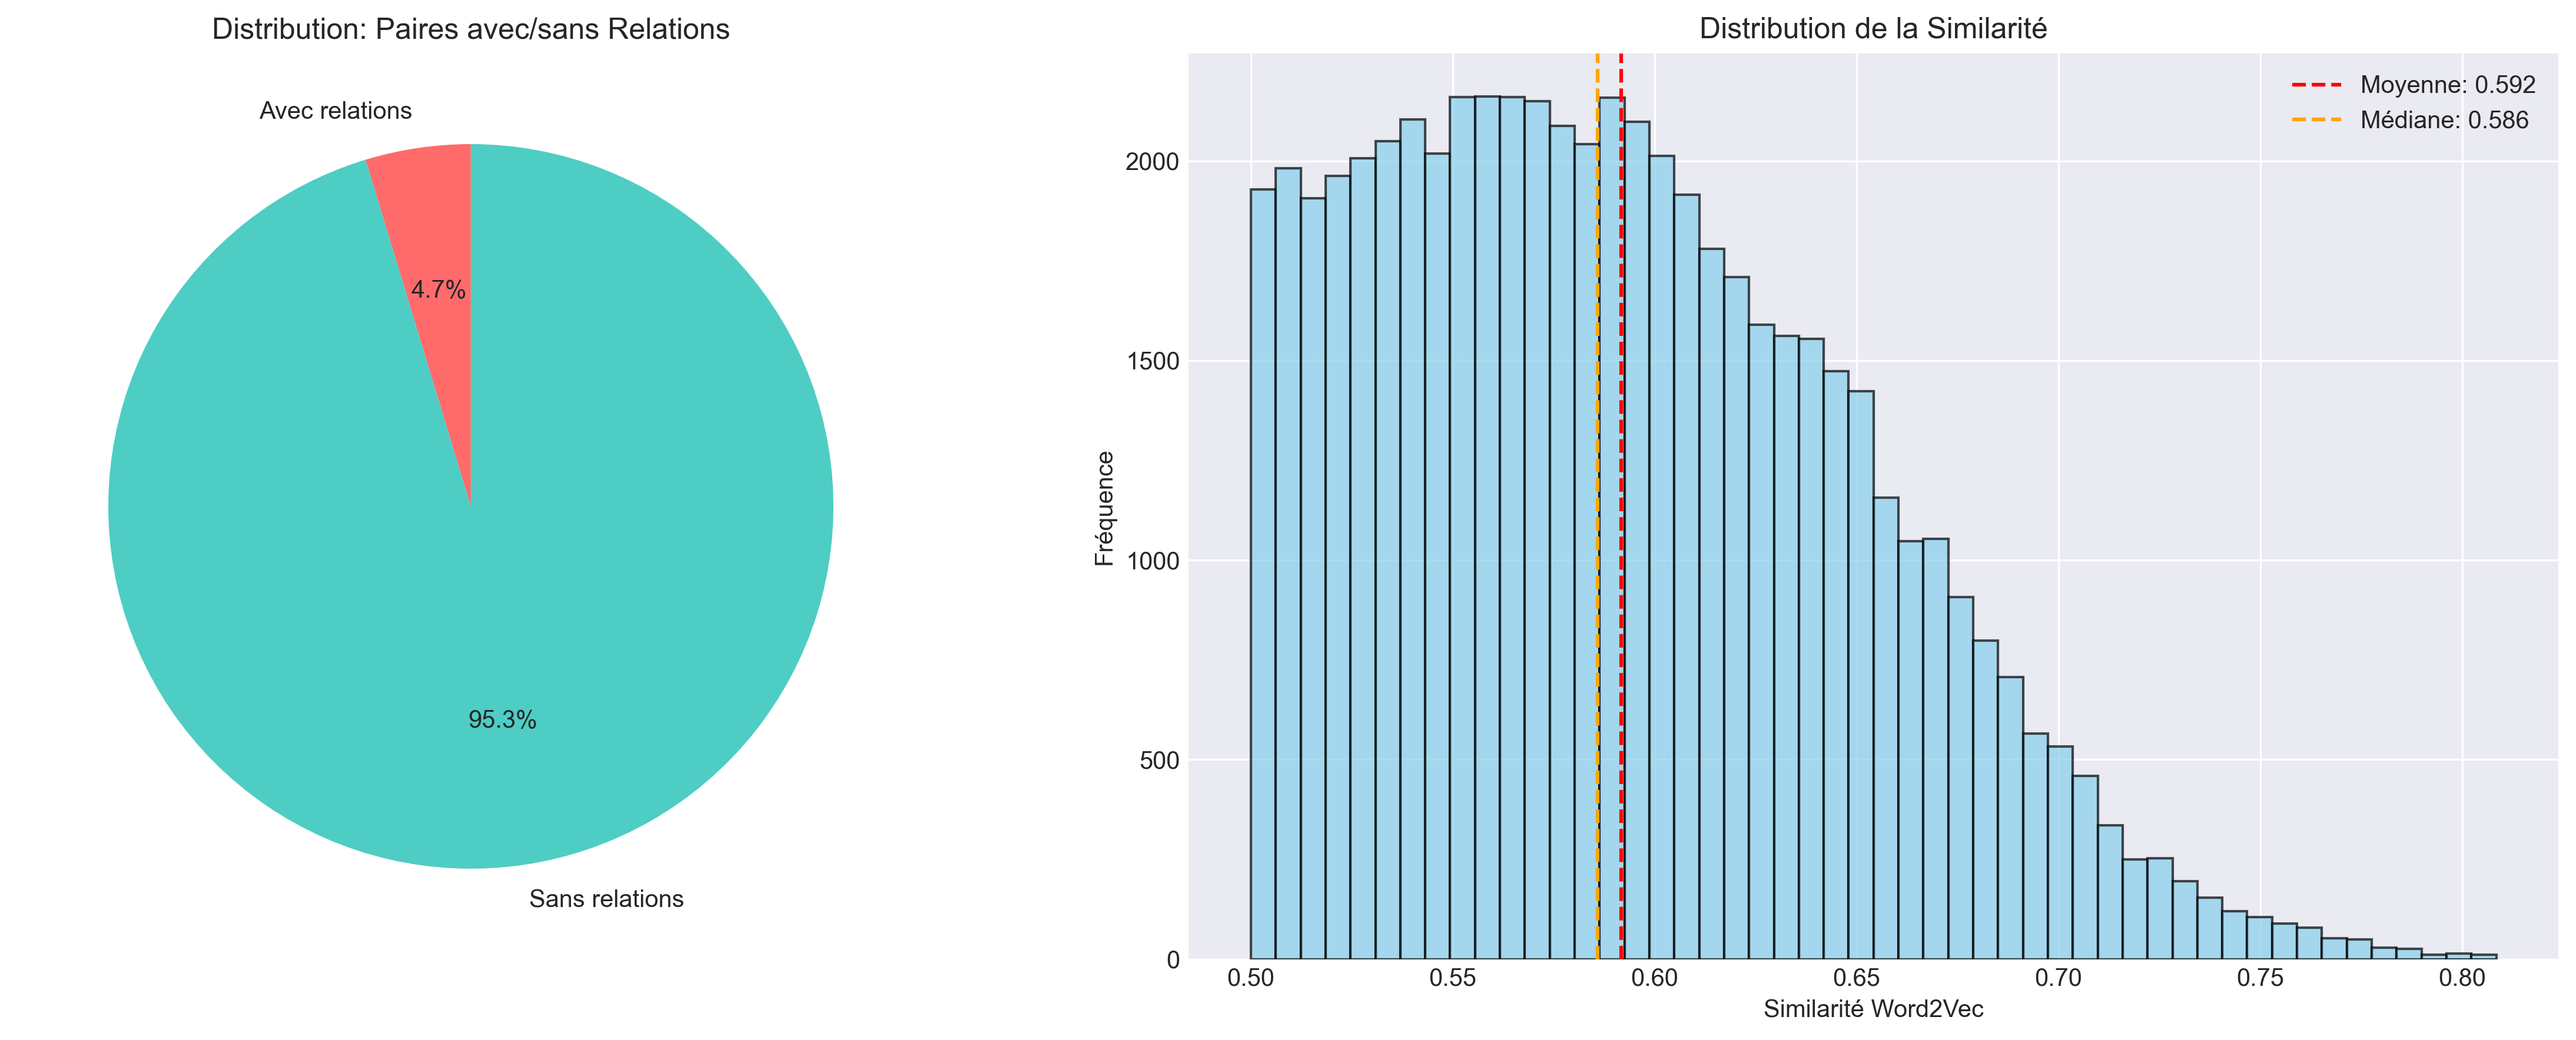
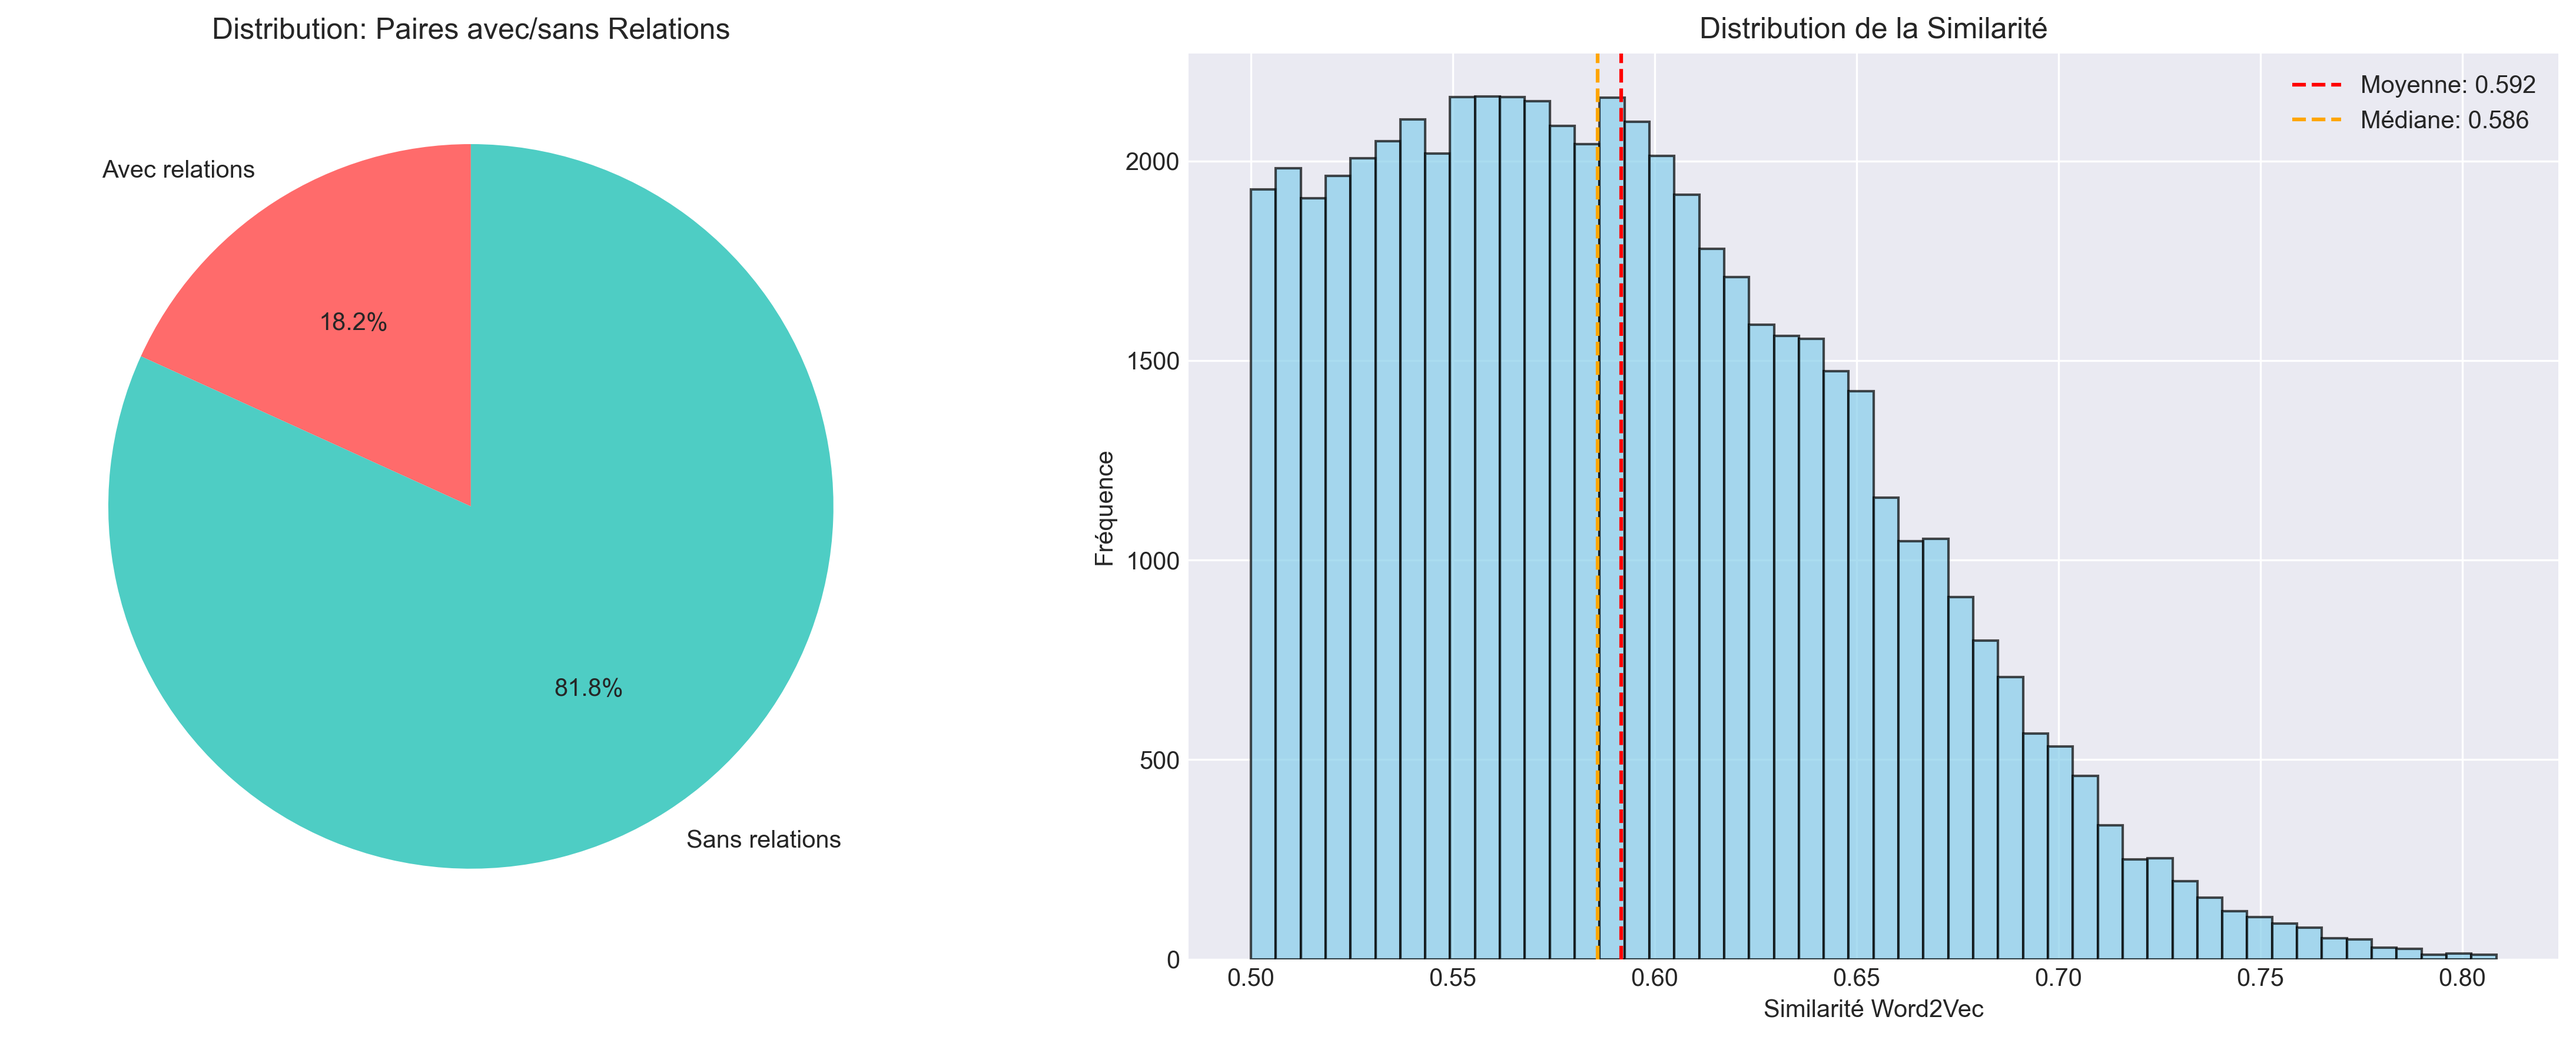
fix: analyse

diff --git a/post_traitement/enrich_new_relations/3_add_new_relations_to_curr_base.py b/post_traitement/enrich_new_relations/3_add_new_relations_to_curr_base.py
@@ -1,7 +1,7 @@
 #!/usr/bin/env python3
 """
-Script to enrich semantic_relations_import.csv with data from recipe_relations_refined.csv
-Adds two new columns: new_relation and new_relation_w
+Script pour enrichir semantic_relations_import.csv avec les données de recipe_relations_refined.csv
+Ajoute deux nouvelles colonnes : new_relation et new_relation_w
 """
 
 import csv
@@ -10,20 +10,20 @@ from typing import Dict, Tuple, Optional
 
 def load_recipe_relations(file_path: str) -> Dict[Tuple[str, str], Tuple[str, str]]:
     """
-    Load recipe relations into a dictionary for fast lookup.
+    Charge les relations de recettes dans un dictionnaire pour une recherche rapide.
     
     Args:
-        file_path: Path to recipe_relations_refined.csv
+        file_path: Chemin vers recipe_relations_refined.csv
         
     Returns:
-        Dictionary mapping (node1, node2) to (relation, w)
+        Dictionnaire mappant (node1, node2) vers (relation, w)
     """
     recipe_relations = {}
     
     with open(file_path, 'r', encoding='utf-8') as f:
         reader = csv.DictReader(f)
         for row in reader:
-            # Skip comment lines
+            # Ignore les lignes de commentaires
             if row['node1'].startswith('//'):
                 continue
                 
@@ -31,17 +31,17 @@ def load_recipe_relations(file_path: str) -> Dict[Tuple[str, str], Tuple[str, st
             value = (row['relation'].strip(), row['w'].strip())
             recipe_relations[key] = value
     
-    print(f"Loaded {len(recipe_relations)} recipe relations")
+    print(f"Chargé {len(recipe_relations)} relations de recettes")
     return recipe_relations
 
 def process_semantic_relations(input_file: str, output_file: str, recipe_relations: Dict[Tuple[str, str], Tuple[str, str]]):
     """
-    Process semantic relations and add new columns, plus add missing recipe relations.
+    Traite les relations sémantiques et ajoute de nouvelles colonnes, plus ajoute les relations de recettes manquantes.
     
     Args:
-        input_file: Path to semantic_relations_import.csv
-        output_file: Path to output file
-        recipe_relations: Dictionary of recipe relations
+        input_file: Chemin vers semantic_relations_import.csv
+        output_file: Chemin vers le fichier de sortie
+        recipe_relations: Dictionnaire des relations de recettes
     """
     found_count = 0
     not_found_count = 0
@@ -52,16 +52,16 @@ def process_semantic_relations(input_file: str, output_file: str, recipe_relatio
         
         reader = csv.DictReader(infile)
         
-        # Add new columns to fieldnames
+        # Ajoute de nouvelles colonnes aux noms de champs
         fieldnames = list(reader.fieldnames) + ['new_relation', 'new_relation_w']
         writer = csv.DictWriter(outfile, fieldnames=fieldnames)
         
-        # Write header
+        # Écrit l'en-tête
         writer.writeheader()
         
-        # Process existing semantic relations
+        # Traite les relations sémantiques existantes
         for row in reader:
-            # Skip comment lines
+            # Ignore les lignes de commentaires
             if row['node1'].startswith('//'):
                 continue
             
@@ -70,26 +70,26 @@ def process_semantic_relations(input_file: str, output_file: str, recipe_relatio
             key = (node1, node2)
             processed_pairs.add(key)
             
-            # Look up in recipe relations
+            # Recherche dans les relations de recettes
             if key in recipe_relations:
                 relation, w = recipe_relations[key]
                 row['new_relation'] = relation
                 row['new_relation_w'] = w
                 found_count += 1
             else:
-                # Not found, leave empty
+                # Non trouvé, laisse vide
                 row['new_relation'] = ''
                 row['new_relation_w'] = ''
                 not_found_count += 1
             
             writer.writerow(row)
         
-        # Add missing recipe relations that weren't in semantic relations
+        # Ajoute les relations de recettes manquantes qui n'étaient pas dans les relations sémantiques
         added_count = 0
         for (node1, node2), (relation, w) in recipe_relations.items():
             key = (node1, node2)
             if key not in processed_pairs:
-                # Create new row with empty columns except for node1, node2, new_relation, new_relation_w
+                # Crée une nouvelle ligne avec des colonnes vides sauf pour node1, node2, new_relation, new_relation_w
                 new_row = {field: '' for field in fieldnames}
                 new_row['node1'] = node1
                 new_row['node2'] = node2
@@ -98,45 +98,45 @@ def process_semantic_relations(input_file: str, output_file: str, recipe_relatio
                 writer.writerow(new_row)
                 added_count += 1
     
-    print(f"Processing complete:")
-    print(f"  - Found matches: {found_count}")
-    print(f"  - Not found: {not_found_count}")
-    print(f"  - Added new entries from recipe relations: {added_count}")
-    print(f"  - Total processed: {found_count + not_found_count + added_count}")
+    print(f"Traitement terminé :")
+    print(f"  - Correspondances trouvées : {found_count}")
+    print(f"  - Non trouvées : {not_found_count}")
+    print(f"  - Nouvelles entrées ajoutées depuis les relations de recettes : {added_count}")
+    print(f"  - Total traité : {found_count + not_found_count + added_count}")
 
 def main():
-    """Main function to execute the enrichment process."""
-    # Define file paths
+    """Fonction principale pour exécuter le processus d'enrichissement."""
+    # Définit les chemins des fichiers
     base_dir = os.path.dirname(os.path.abspath(__file__))
     
-    # Input files
+    # Fichiers d'entrée
     semantic_relations_file = os.path.join(base_dir, '..', 'semantic_relations_import.csv')
     recipe_relations_file = os.path.join(base_dir, 'recipe_relations_refined.csv')
     
-    # Output file
+    # Fichier de sortie
     output_file = os.path.join(base_dir, 'semantic_relations_enriched.csv')
     
-    # Check if input files exist
+    # Vérifie si les fichiers d'entrée existent
     if not os.path.exists(semantic_relations_file):
-        print(f"Error: {semantic_relations_file} not found")
+        print(f"Erreur : {semantic_relations_file} introuvable")
         return
     
     if not os.path.exists(recipe_relations_file):
-        print(f"Error: {recipe_relations_file} not found")
+        print(f"Erreur : {recipe_relations_file} introuvable")
         return
     
-    print("Starting enrichment process...")
-    print(f"Input semantic relations: {semantic_relations_file}")
-    print(f"Input recipe relations: {recipe_relations_file}")
-    print(f"Output file: {output_file}")
+    print("Démarrage du processus d'enrichissement...")
+    print(f"Relations sémantiques d'entrée : {semantic_relations_file}")
+    print(f"Relations de recettes d'entrée : {recipe_relations_file}")
+    print(f"Fichier de sortie : {output_file}")
     
-    # Load recipe relations
+    # Charge les relations de recettes
     recipe_relations = load_recipe_relations(recipe_relations_file)
     
-    # Process semantic relations
+    # Traite les relations sémantiques
     process_semantic_relations(semantic_relations_file, output_file, recipe_relations)
     
-    print(f"Enriched data written to: {output_file}")
+    print(f"Données enrichies écrites dans : {output_file}")
 
 if __name__ == "__main__":
     main()

diff --git a/analyse/analyze_relations.py b/analyse/analyze_relations.py
@@ -165,90 +165,15 @@ class RelationsAnalyzer:
         
         return relation_stats
     
-    def analyze_frequent_pairs(self, top_n=50):
-        """Analyse les paires les plus fréquentes"""
-        print("\n" + "="*60)
-        print("ANALYSE DES PAIRES LES PLUS FRÉQUENTES")
-        print("="*60)
-        
-        # Compter les paires
-        pair_counts = Counter()
-        pair_relations = {}
-        
-        for _, row in self.df_with_relations.iterrows():
-            pair = (row['node1'], row['node2'])
-            pair_counts[pair] += 1
-            
-            # Stocker les relations pour cette paire
-            if pair not in pair_relations:
-                pair_relations[pair] = {
-                    'relations': [],
-                    'best_relation': row.get('best_relation', ''),
-                    'best_weight': row.get('best_relation_w', 0),
-                    'dep': row['dep'],
-                    'sim': row['sim']
-                }
-            
-            if row['relations_parsed']:
-                pair_relations[pair]['relations'].extend(row['relations_parsed'])
-        
-        # Prendre les top paires
-        top_pairs = pair_counts.most_common(top_n)
-        
-        # Créer le rapport
-        report = []
-        report.append(f"TOP {top_n} PAIRES LES PLUS FRÉQUENTES")
-        report.append("-" * 80)
-        report.append(f"{'Paire':<40} {'Freq':<6} {'Relation':<20} {'Poids':<6} {'Sim':<6}")
-        report.append("-" * 80)
-        
-        for (node1, node2), freq in top_pairs:
-            pair_info = pair_relations[(node1, node2)]
-            relation = pair_info['best_relation'] if pair_info['best_relation'] else 'Aucune'
-            weight = pair_info['best_weight'] if pair_info['best_weight'] else 0
-            sim = pair_info['sim']
-            
-            pair_str = f"{node1} → {node2}"
-            if len(pair_str) > 39:
-                pair_str = pair_str[:36] + "..."
-                
-            report.append(f"{pair_str:<40} {freq:<6} {relation[:19]:<20} {weight:<6.1f} {sim:<6.3f}")
-        
-        # Sauvegarder le rapport (sera inclus dans le rapport complet)
-        self.frequent_pairs_report = report
-        
-        print("\n".join(report))
-        
-        # Visualisation de la distribution des fréquences
-        plt.figure(figsize=(12, 6))
-        frequencies = [freq for _, freq in top_pairs[:20]]
-        labels = [f"{node1[:8]}→{node2[:8]}" for (node1, node2), _ in top_pairs[:20]]
-        
-        bars = plt.bar(range(len(frequencies)), frequencies, color=plt.cm.coolwarm(np.linspace(0, 1, len(frequencies))))
-        plt.xlabel('Paires de mots')
-        plt.ylabel('Fréquence')
-        plt.title('Top 20 Paires les Plus Fréquentes')
-        plt.xticks(range(len(labels)), labels, rotation=45, ha='right')
-        
-        # Ajouter les valeurs sur les barres
-        for i, bar in enumerate(bars):
-            height = bar.get_height()
-            plt.text(bar.get_x() + bar.get_width()/2., height + 0.01*max(frequencies),
-                    f'{int(height)}', ha='center', va='bottom')
-        
-        plt.tight_layout()
-        plt.savefig(self.output_dir / "frequent_pairs_distribution.png", dpi=300, bbox_inches='tight')
-        plt.close()
-        
-        return top_pairs
-    
     def analyze_distribution(self):
         """Analyse la distribution générale des données"""
         print("\n" + "="*60)
         print("ANALYSE DE LA DISTRIBUTION DES DONNÉES")
         print("="*60)
         
-        total_pairs = len(self.df)
+        # Only count pairs with non-null similarity
+        df_with_sim = self.df[self.df['sim'].notna()]
+        total_pairs = len(df_with_sim)
         pairs_with_relations = len(self.df_with_relations)
         pairs_without_relations = total_pairs - pairs_with_relations
         
@@ -471,7 +396,9 @@ class RelationsAnalyzer:
     
     def generate_complete_report(self):
         """Génère un rapport complet unique avec toutes les analyses"""
-        total_pairs = len(self.df)
+        # Only count pairs with non-null similarity
+        df_with_sim = self.df[self.df['sim'].notna()]
+        total_pairs = len(df_with_sim)
         pairs_with_relations = len(self.df_with_relations)
         total_relations = len(self.rel_df)
         unique_relation_types = len(self.rel_df['rel_type'].unique()) if len(self.rel_df) > 0 else 0
@@ -515,17 +442,9 @@ class RelationsAnalyzer:
         complete_report.append("")
         complete_report.append("")
         
-        # Section 2: Paires fréquentes
-        complete_report.append("="*80)
-        complete_report.append("SECTION 2: PAIRES DE MOTS LES PLUS FRÉQUENTES")
-        complete_report.append("="*80)
-        complete_report.extend(self.frequent_pairs_report[1:])  # Skip the title
-        complete_report.append("")
-        complete_report.append("")
-        
         # Section 3: Distribution
         complete_report.append("="*80)
-        complete_report.append("SECTION 3: DISTRIBUTION ET STATISTIQUES GÉNÉRALES")
+        complete_report.append("SECTION 2: DISTRIBUTION ET STATISTIQUES GÉNÉRALES")
         complete_report.append("="*80)
         complete_report.extend(self.distribution_report[1:])  # Skip the title
         complete_report.append("")
@@ -533,7 +452,7 @@ class RelationsAnalyzer:
         
         # Section 4: Nouvelles Relations
         complete_report.append("="*80)
-        complete_report.append("SECTION 4: ANALYSE DES NOUVELLES RELATIONS")
+        complete_report.append("SECTION 3: ANALYSE DES NOUVELLES RELATIONS")
         complete_report.append("="*80)
         if hasattr(self, 'new_relations_report'):
             complete_report.extend(self.new_relations_report[1:])  # Skip the title
@@ -544,7 +463,7 @@ class RelationsAnalyzer:
         
         # Section 5: Analyses supplémentaires
         complete_report.append("="*80)
-        complete_report.append("SECTION 5: ANALYSES DÉTAILLÉES")
+        complete_report.append("SECTION 4: ANALYSES DÉTAILLÉES")
         complete_report.append("="*80)
         
         # Analyse des relations par poids
@@ -654,7 +573,6 @@ class RelationsAnalyzer:
         
         # Analyses
         self.analyze_top_relations()
-        self.analyze_frequent_pairs()
         self.analyze_distribution()
         self.analyze_new_relations()
         
